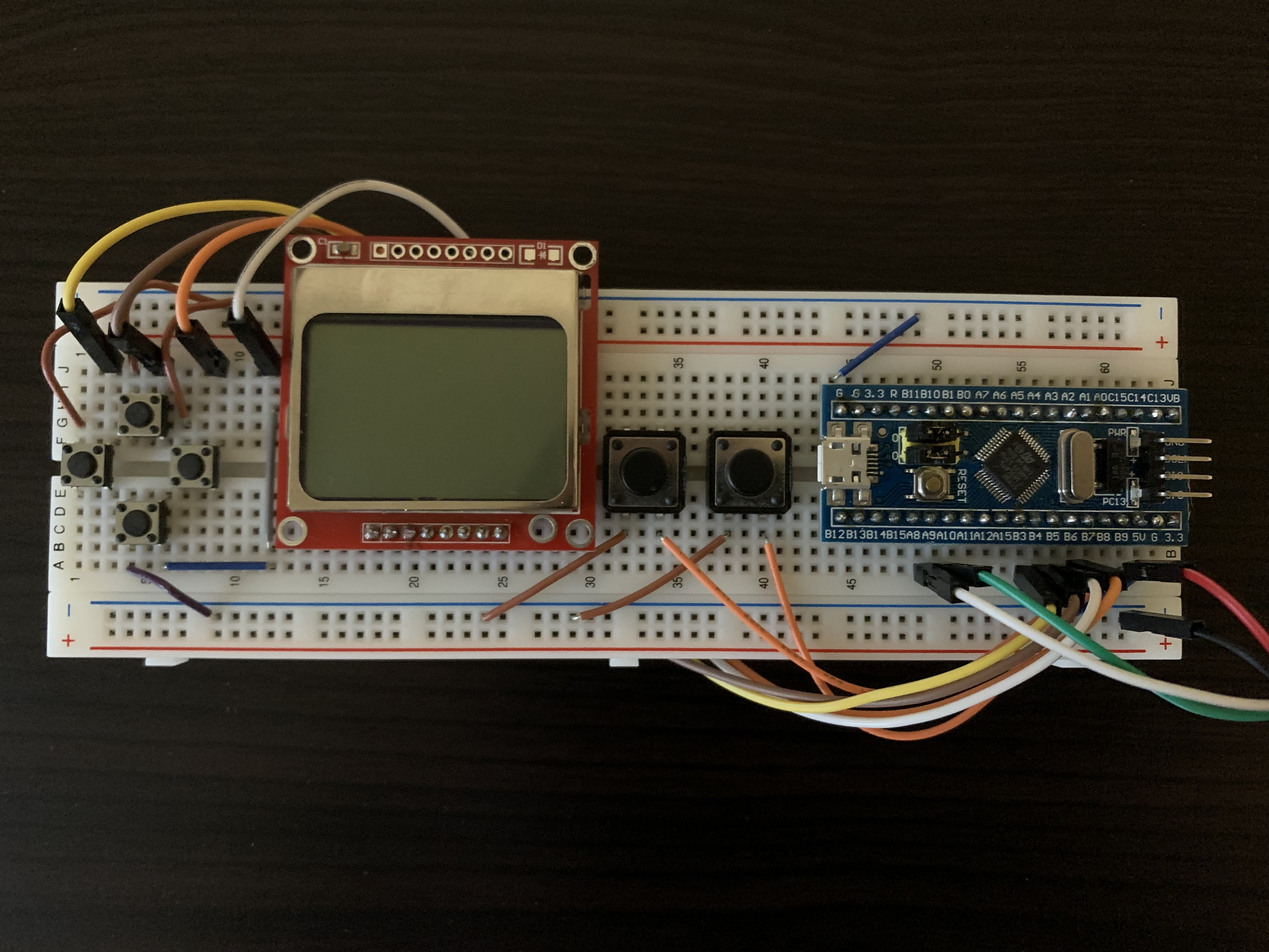
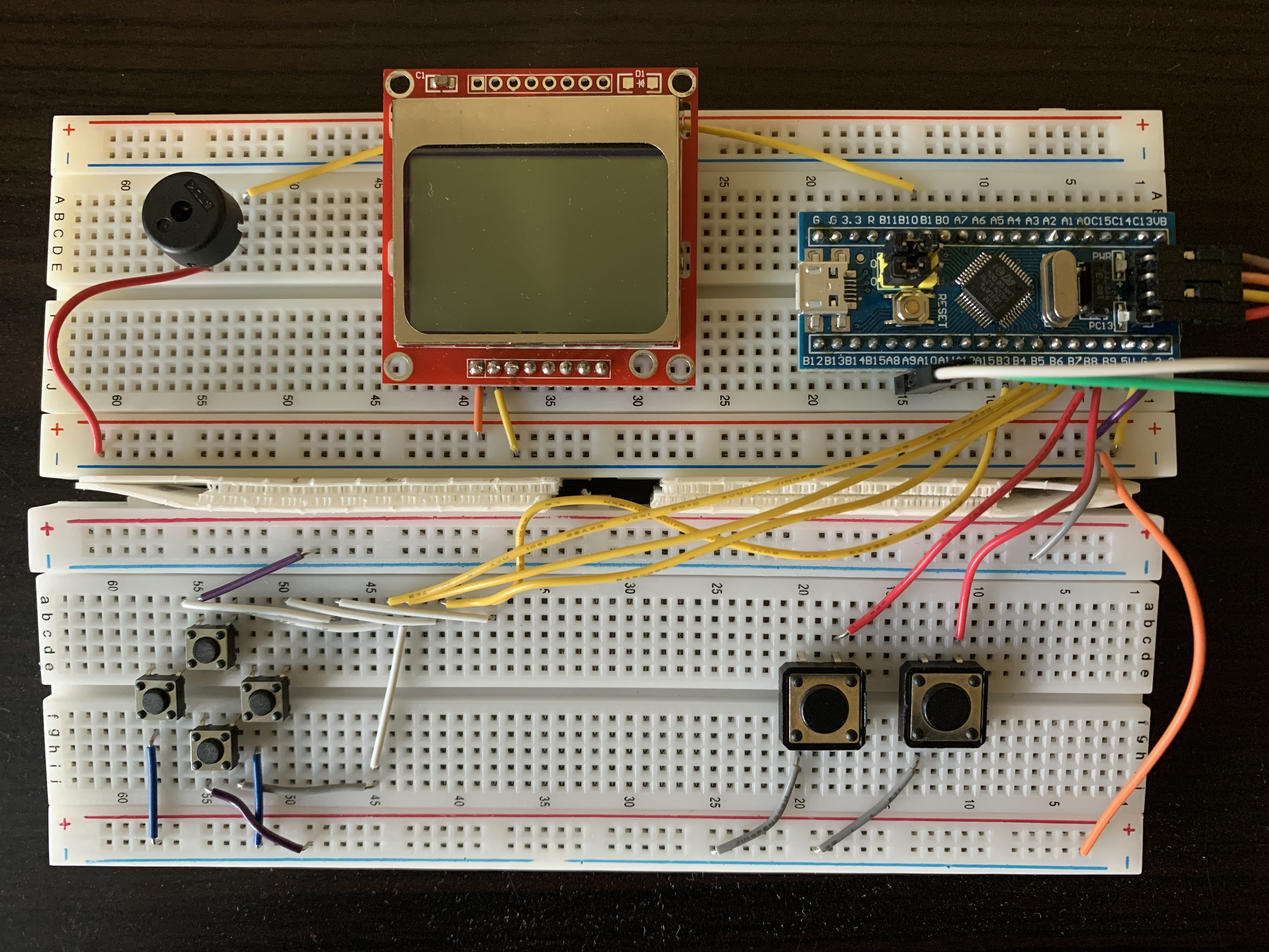
Begin writing sd driver

diff --git a/src/sd.c b/src/sd.c
@@ -1,0 +1,39 @@
+#include "sd.h"
+#include "gpio.h"
+
+#define SPI_CLK    (1 << 14)
+#define SPI2_START 0x40013800
+#define SPI2_CR1   (*((volatile uint32_t *)(SPI2_START + 0x00)))
+#define SPI2_SR    (*((volatile uint32_t *)(SPI2_START + 0x08)))
+#define SPI2_DR    (*((volatile uint32_t *)(SPI2_START + 0x0C)))
+
+static void _gpio_init(void) {
+    // MODEy (12, 13, 15 2MHz out, 14 in)
+    GPIOB_CRH |= ((1 << 17) | (1 << 21) | (1 << 29));
+
+    // CNFy (12, 13, 15 alt out, 14 floating in)
+    GPIOB_CRH |= ((1 << 19) | (1 << 23) | (1 << 31));
+}
+
+void sd_init(void) {
+    _gpio_init();
+
+    RCC_APB1ENR |= SPI_CLK;
+    for (volatile int i = 0; i < 10; i++);
+
+    SPI2_CR1 |= (1 << 2); // Set as master
+    SPI2_CR1 |= (1 << 6); // Enable
+}
+
+void sd_write(uint8_t data) {
+    while (!(SPI2_SR & 0x02));
+    SPI2_DR = data;
+}
+
+uint8_t sd_read(void) {
+    return SPI2_DR;
+}
+
+bool sd_inserted(void) {
+    return (GPIOA_IDR & (1 << 8));
+}

diff --git a/src/display.c b/src/display.c
@@ -1,4 +1,4 @@
-#include "spi.h"
+#include "display.h"
 #include "gpio.h"
 
 #define SPI_CLK    (1 << 12)
@@ -15,7 +15,7 @@ static void _gpio_init(void) {
     GPIOA_CRL |= ((1 << 19) | (1 << 23) | (1 << 31));
 }
 
-void spi_init(void) {
+void display_init(void) {
     _gpio_init();
 
     RCC_APB2ENR |= SPI_CLK;
@@ -25,7 +25,7 @@ void spi_init(void) {
     SPI1_CR1 |= (1 << 6); // Enable
 }
 
-void spi_write(uint8_t data) {
+void display_draw(uint8_t data) {
     while (!(SPI1_SR & 0x02));
     SPI1_DR = data;
 }

diff --git a/src/main.c b/src/main.c
@@ -4,11 +4,10 @@
 #include "clock.h"
 #include "gpio.h"
 #include "uart.h"
-#include "spi.h"
+#include "sd.h"
 #include "buttons.h"
 #include "pwm.h"
 #include "chip8.h"
-#include "delay.h"
 
 // Emulator
 CHIP8 chip8;
@@ -121,6 +120,7 @@ int main(void)
     buttons_init();
 	uart_init(500000);
     pwm_init(440);
+    sd_init();
 
     // Wait for button press here
     while (!btn_released(BTN_B));

diff --git a/include/sd.h b/include/sd.h
@@ -1,0 +1,12 @@
+#ifndef SD_H
+#define SD_H
+
+#include <stdint.h>
+#include <stdbool.h>
+
+void sd_init(void);
+void sd_write(uint8_t data);
+uint8_t sd_read(void);
+bool sd_inserted(void);
+
+#endif

diff --git a/include/display.h b/include/display.h
@@ -1,0 +1,9 @@
+#ifndef DISPLAY_H
+#define DISPLAY_H
+
+#include <stdint.h>
+
+void display_init(void);
+void display_draw(uint8_t data);
+
+#endif
